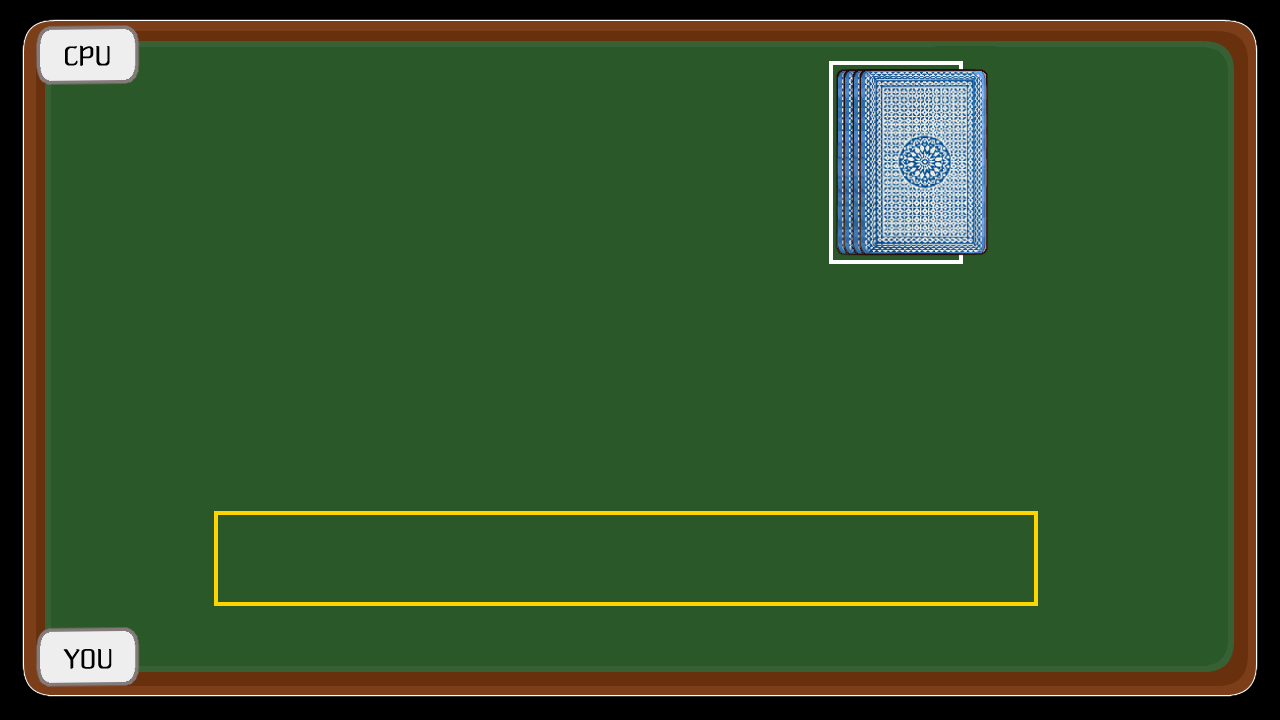
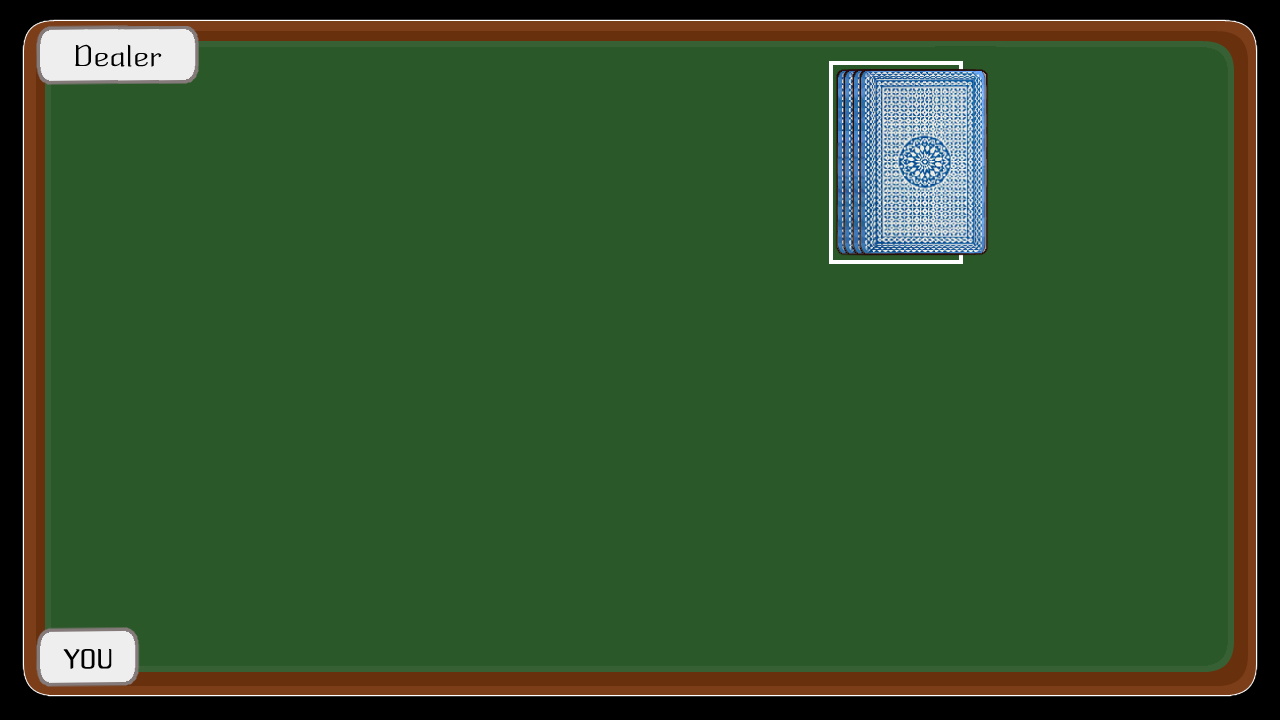
hit/stand/restart 버튼 변경

Changed region(s): [[0.1562, 0.825, 0.8125, 0.8556], [0.1562, 0.7028, 0.8125, 0.7333], [0.0312, 0.0306, 0.1562, 0.1222]]

diff --git a/블랙잭/블랙잭.cpp b/블랙잭/블랙잭.cpp
@@ -140,7 +140,7 @@ void givePlayerCard(bool front = true) {
 
 	player_score = calcScore(player_card, player_card_num);
 	if (player_score > 21)
-		setGameEnd("Player Burst!!! Lost Game.");
+		setGameEnd("Player Burst!!! You lose.");
 }
 
 void giveDealerCard(bool front = true) {
@@ -154,7 +154,7 @@ void giveDealerCard(bool front = true) {
 
 	dealer_score = calcScore(dealer_card, dealer_card_num);
 	if (dealer_score > 21)
-		setGameEnd("Dealer Burst!!! Win Game.");
+		setGameEnd("Dealer Burst!!! You win.");
 }
 
 void mouseCallback(ObjectID object, int x, int y, MouseAction action) {
@@ -221,9 +221,9 @@ int main() {
 		dealer_card_object[i] = createObject("Images/back.png", scene, 250 + i * 50, 465, false);
 	}
 
-	hit_button = createObject("Images/hit.png", scene, 1100, 600, false);
-	stand_button = createObject("Images/stand.png", scene, 1100, 550, false);
-	start_button = createObject("Images/start.png", scene, 1100, 500, false);
+	hit_button = createObject("Images/hit.png", scene, 1050, 400, false);
+	stand_button = createObject("Images/stand.png", scene, 1050, 200, false);
+	start_button = createObject("Images/restart.png", scene, 0, 0, false);
 
 	timer = createTimer(animationTime);
 
